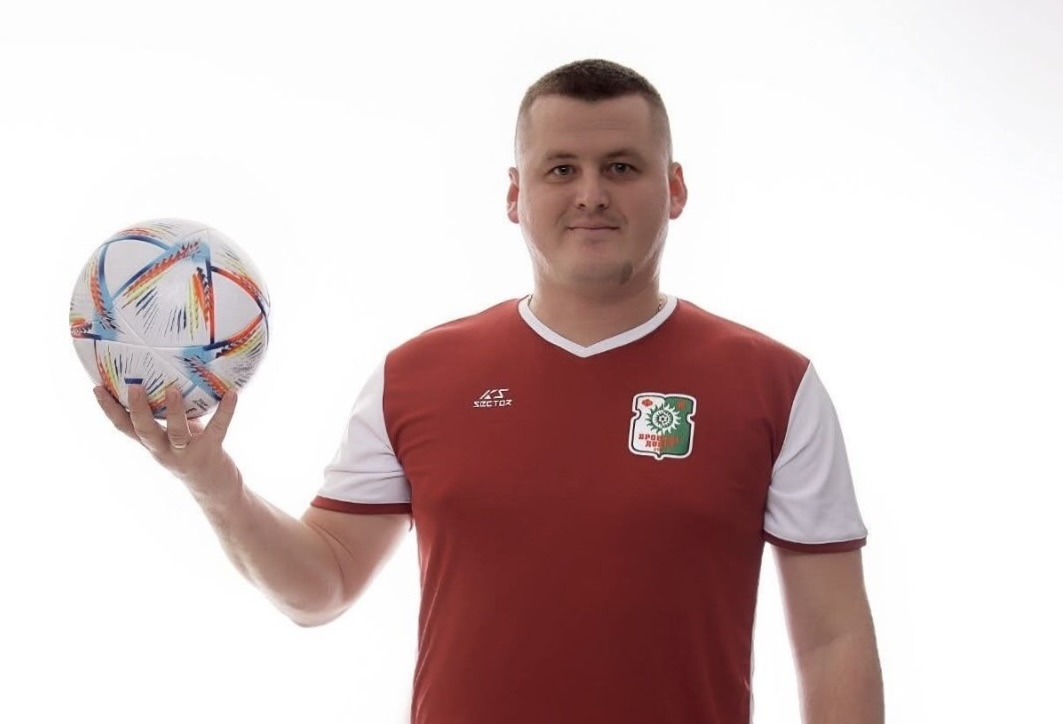
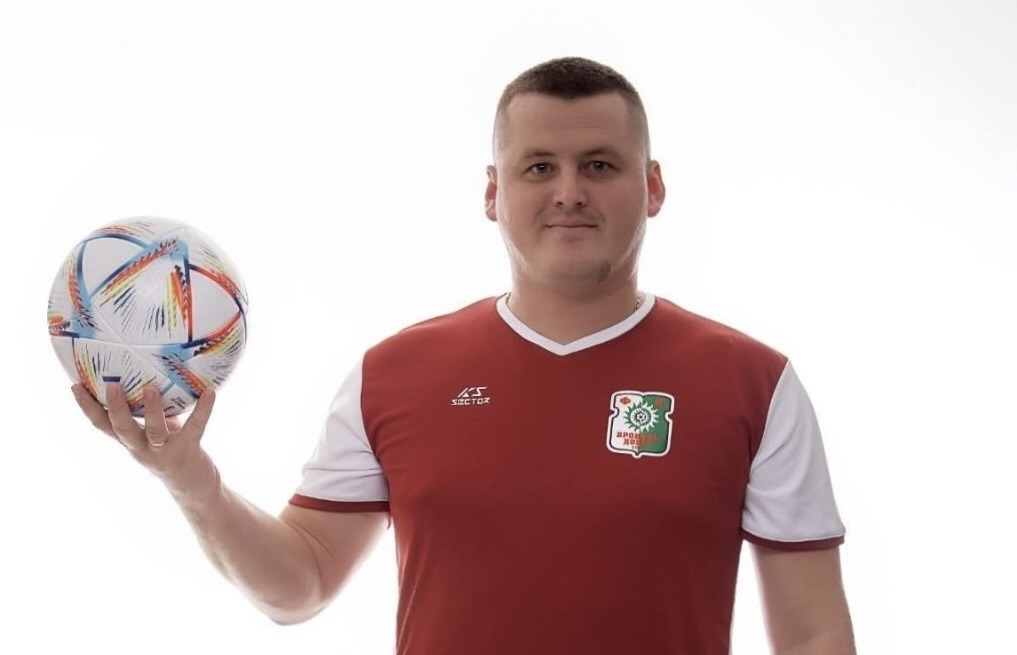
Update footer locations

Changed region(s): [[0.0305, 0.0611, 0.8535, 1.0], [0.3658, 0.916, 0.3963, 1.0]]

diff --git a/project/style.css b/project/style.css
@@ -839,15 +839,17 @@ body.is-loading {
 }
 
 .footer {
-  padding: 4rem 0 1.2rem;
-  background: #0b1710;
+  padding: 3.6rem 0 1.2rem;
+  background:
+    linear-gradient(180deg, #0d1c12 0%, #07110b 100%);
   color: rgba(255, 255, 255, 0.86);
 }
 
 .footer__grid {
   display: grid;
-  grid-template-columns: 1.05fr 0.9fr 0.65fr 1.45fr;
-  gap: 1.5rem;
+  grid-template-columns: 1.15fr 1fr 0.75fr 1.35fr;
+  align-items: start;
+  gap: 1.4rem;
 }
 
 .footer__brand img {
@@ -858,10 +860,15 @@ body.is-loading {
 
 .footer__brand h3 {
   margin: 0 0 0.55rem;
+  color: #fff;
+  font-size: 1.2rem;
+  line-height: 1.2;
 }
 
 .footer__brand p {
   margin: 0;
+  max-width: 18rem;
+  line-height: 1.55;
 }
 
 .footer__logo {
@@ -872,8 +879,11 @@ body.is-loading {
 }
 
 .footer h4 {
-  margin: 0 0 1rem;
+  margin: 0 0 0.9rem;
   color: #fff;
+  font-size: 0.92rem;
+  letter-spacing: 0.08em;
+  text-transform: uppercase;
 }
 
 .footer__list {
@@ -886,7 +896,20 @@ body.is-loading {
   display: flex;
   align-items: center;
   gap: 0.75rem;
-  margin-bottom: 0.8rem;
+  margin-bottom: 0.7rem;
+  line-height: 1.45;
+}
+
+.footer__list i {
+  display: inline-grid;
+  place-items: center;
+  flex: 0 0 auto;
+  width: 1.8rem;
+  height: 1.8rem;
+  border-radius: 50%;
+  background: rgba(255, 255, 255, 0.08);
+  color: #f2c8cf;
+  font-size: 0.78rem;
 }
 
 .socials {
@@ -897,11 +920,13 @@ body.is-loading {
 .socials a {
   display: grid;
   place-items: center;
-  width: 2.8rem;
-  height: 2.8rem;
+  width: 2.75rem;
+  height: 2.75rem;
   border-radius: 50%;
-  background: rgba(255, 255, 255, 0.08);
-  transition: transform 0.25s ease, background 0.25s ease;
+  background: rgba(255, 255, 255, 0.92);
+  color: var(--accent);
+  box-shadow: 0 12px 28px rgba(0, 0, 0, 0.16);
+  transition: transform 0.25s ease, background 0.25s ease, color 0.25s ease;
 }
 
 .socials a svg {
@@ -910,49 +935,35 @@ body.is-loading {
 }
 
 .socials a:hover {
-  transform: translateY(-3px);
-  background: linear-gradient(135deg, rgba(159, 24, 43, 0.28), rgba(25, 178, 93, 0.2));
+  transform: translateY(-2px);
+  background: var(--accent);
+  color: #fff;
 }
 
-.map-card {
-  overflow: hidden;
-  border-radius: var(--radius-md);
-  border: 2px solid #9f182b;
-  background: #f7faf5;
-  box-shadow: 0 18px 44px rgba(0, 0, 0, 0.16);
-}
-
-.map-card img {
-  width: 100%;
-  height: auto;
-  aspect-ratio: 900 / 620;
-  object-fit: contain;
-}
-
-.map-locations {
+.footer-locations {
   display: flex;
   flex-wrap: wrap;
-  gap: 0.45rem;
-  margin: 0.85rem 0 0;
+  gap: 0.4rem;
+  margin: 0;
   padding: 0;
   list-style: none;
 }
 
-.map-locations li {
-  padding: 0.28rem 0.55rem;
-  border: 1px solid rgba(255, 255, 255, 0.14);
+.footer-locations li {
+  padding: 0.26rem 0.52rem;
+  border: 1px solid rgba(255, 255, 255, 0.16);
   border-radius: 999px;
-  background: rgba(255, 255, 255, 0.08);
-  color: rgba(255, 255, 255, 0.86);
+  background: rgba(255, 255, 255, 0.09);
+  color: rgba(255, 255, 255, 0.88);
   font-size: 0.75rem;
   font-weight: 700;
   line-height: 1.2;
 }
 
 .footer__bottom {
-  margin-top: 2rem;
+  margin-top: 1.8rem;
   padding-top: 1.1rem;
-  border-top: 1px solid rgba(255, 255, 255, 0.08);
+  border-top: 1px solid rgba(255, 255, 255, 0.1);
   font-size: 0.92rem;
   color: rgba(255, 255, 255, 0.62);
   display: flex;
@@ -1146,7 +1157,7 @@ body.is-loading {
   }
 
   .footer__grid {
-    gap: 1.8rem;
+    gap: 1.6rem;
   }
 }
 
@@ -1366,8 +1377,23 @@ body.is-loading {
     text-align: center;
   }
 
+  .footer {
+    padding: 2.7rem 0 1rem;
+  }
+
+  .footer__grid {
+    gap: 1.45rem;
+  }
+
+  .footer__brand p {
+    margin-left: auto;
+    margin-right: auto;
+  }
+
   .footer__bottom {
+    margin-top: 1.5rem;
     justify-content: center;
+    gap: 0.45rem;
   }
 
   .footer__brand img,
@@ -1381,8 +1407,14 @@ body.is-loading {
     justify-content: center;
   }
 
-  .map-card {
-    min-height: 180px;
+  .footer-locations {
+    justify-content: center;
+    gap: 0.35rem;
+  }
+
+  .footer-locations li {
+    font-size: 0.72rem;
+    padding: 0.24rem 0.48rem;
   }
 }
 

diff --git a/project/index.html b/project/index.html
@@ -161,7 +161,7 @@
             <ul class="hero__stats reveal" aria-label="Ключові показники клубу">
               <li><strong>2009</strong><span>рік заснування</span></li>
               <li><strong>8+</strong><span>локацій тренувань</span></li>
-              <li><strong>300+</strong><span>вихованців</span></li>
+              <li><strong>700+</strong><span>вихованців</span></li>
             </ul>
           </div>
         </section>
@@ -618,13 +618,13 @@
           <div class="footer__brand">
             <img class="brand__logo footer__logo" src="./images/logo.png" alt="Логотип СК Бронька-Довге" />
             <h3>СК Бронька-Довге</h3>
-            <p>СУЧАСНИЙ ФУТБОЛЬНИЙ КЛУБ ДЛЯ ДІТЕЙ ТА МОЛОДІ.</p>
+            <p>Сучасний футбольний клуб для дітей та молоді.</p>
           </div>
 
           <div>
             <h4>Контакти</h4>
             <ul class="footer__list">
-              <li><i class="fa-solid fa-phone"></i><a href="tel:+380000000000">+380 (96) 637 75 32</a></li>
+              <li><i class="fa-solid fa-phone"></i><a href="tel:+380966377532">+380 (96) 637 75 32</a></li>
               <li><i class="fa-solid fa-envelope"></i><a href="mailto:[email redacted]">[email redacted]</a></li>
               <li><i class="fa-solid fa-location-dot"></i><span>Закарпатська область, Україна</span></li>
             </ul>
@@ -650,11 +650,8 @@
           </div>
 
           <div>
-            <h4>Карта</h4>
-            <div class="map-card">
-              <img src="./images/map.svg" alt="Карта Закарпаття та локацій клубу" />
-            </div>
-            <ul class="map-locations" aria-label="Локації тренувань">
+            <h4>Локації тренувань</h4>
+            <ul class="footer-locations" aria-label="Локації тренувань">
               <li>Вільхівка</li>
               <li>Малий Раковець</li>
               <li>Імстичово</li>
@@ -670,7 +667,7 @@
 
         <div class="container footer__bottom">
           <p>&copy; <span id="year"></span> СК Бронька-Довге. Усі права захищені.</p>
-          <p>&copy; Made by  <a class="footer__credit-link" href="https://ghoststudio.website" target="_blank" rel="noopener noreferrer">Ghost Studio</a></p>
+          <p> ⓒ Made by <a class="footer__credit-link" href="https://ghoststudio.website/" target="_blank" rel="noopener noreferrer">Ghost Studio</a></p>
         </div>
       </footer>
     </div>